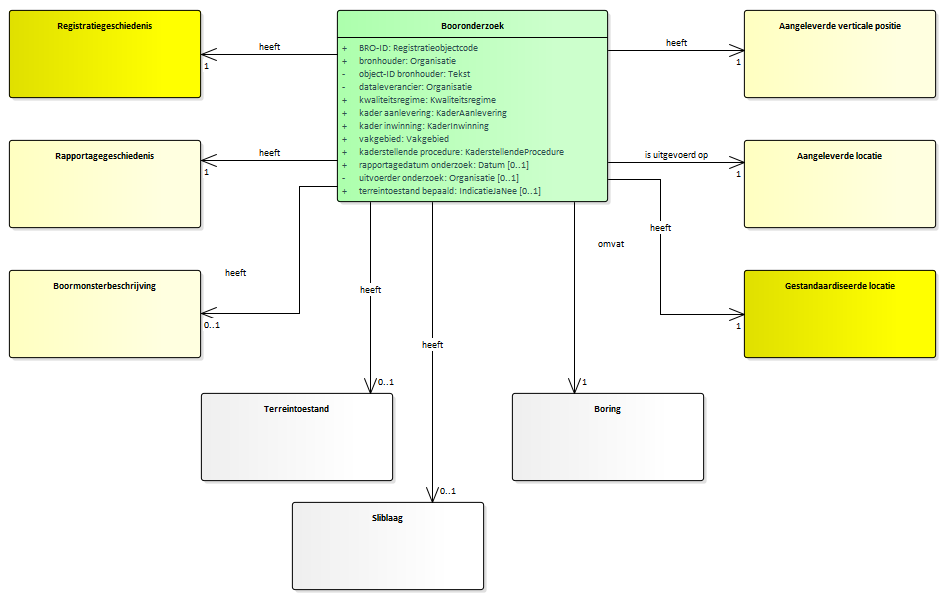
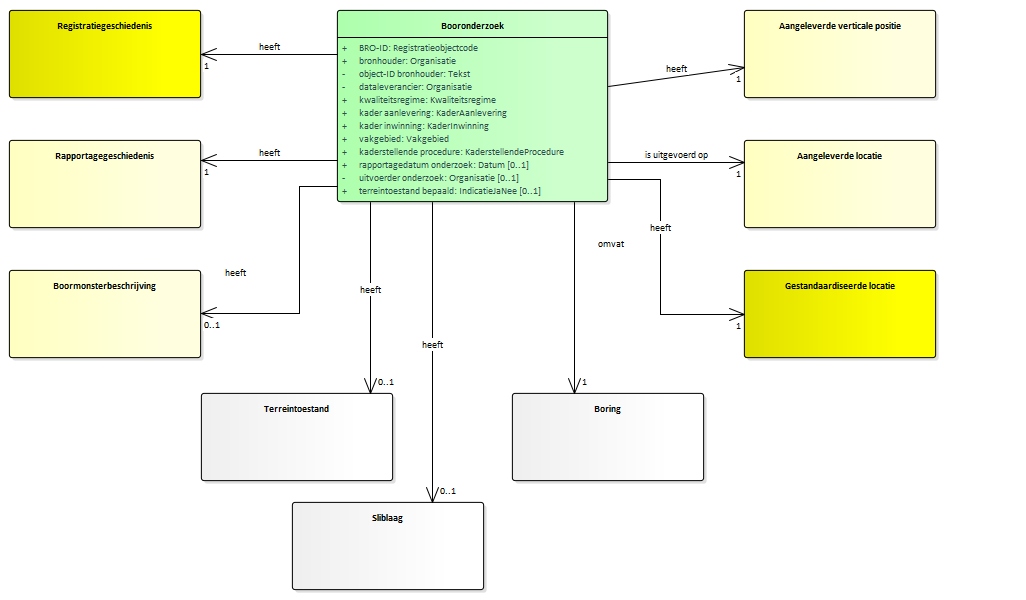
Conceptualmodel-GeologischbooronderzoekBHR-G-0.91-0-20200203-20200208-233418

diff --git a/data/BHR-G-cat.msword.html b/data/BHR-G-cat.msword.html
@@ -13,7 +13,7 @@
    <body>
       <p>Conceptual model/Geologisch booronderzoek (BHR-G)/20200203</p>
       <p>Imvertor: 1.57.1</p>
-      <p>Model release: Conceptualmodel-GeologischbooronderzoekBHR-G-0.91-0-20200203-20200206-120900</p>
+      <p>Model release: Conceptualmodel-GeologischbooronderzoekBHR-G-0.91-0-20200203-20200208-233418</p>
       <hr>
       <section>
          <h1>Artikel 1 Definitie van registratieobject, entiteiten en attributen</h1>
@@ -37,7 +37,7 @@
                      <area shape="rect" alt="Tussentijdse gebeurtenis" coords="39,348,273,410" href="#graph_EAID_725A4724_B6D0_4341_A1C4_4F93AD3E6216">
                      <area shape="rect" alt="Rapportagegeschiedenis" coords="39,247,273,309" href="#graph_EAID_8BEA8373_8624_4cd9_80EA_7EC93CED307F">
                      <area shape="rect" alt="Registratiegeschiedenis" coords="11,10,328,202" href="#graph_EAID_C7F3AA17_23C9_4038_AA5F_EA56515F2929">
-                     <area shape="rect" alt="Booronderzoek" coords="400,10,716,202" href="#graph_EAID_660D0220_39EE_4290_AD92_C8E8CCEDB502"></map><p><b>Domeinmodel geologisch booronderzoek, algemeen deel</b> — het algemeen deel uitgewerkt
+                     <area shape="rect" alt="Booronderzoek" coords="401,10,717,202" href="#graph_EAID_660D0220_39EE_4290_AD92_C8E8CCEDB502"></map><p><b>Domeinmodel geologisch booronderzoek, algemeen deel</b> — het algemeen deel uitgewerkt
                   </p>
                </div>
                <div class="imageinfo overview"><img src="Images/EAID_A794A5F1_C52E_4a52_952F_D4257486C44D.png" usemap="#imagemap-EAID_A794A5F1_C52E_4a52_952F_D4257486C44D" alt="Diagram deelonderzoek boormonsterbeschrijving uitgewerkt."><map name="imagemap-EAID_A794A5F1_C52E_4a52_952F_D4257486C44D">
@@ -160,6 +160,9 @@
                         <tr>
                            <th>Relaties met andere entiteiten</th>
                            <td>Booronderzoek 
+                              aangeleverde verticale positie 1 
+                              <a class="link" href="#global_class_DomeinmodelBHRBHRG_AangeleverdeVerticalePositie">Aangeleverde verticale positie</a>
+                              <br>Booronderzoek 
                               heeft 1 
                               <a class="link" href="#global_class_DomeinmodelBHRBHRG_GestandaardiseerdeLocatie">Gestandaardiseerde locatie</a>
                               <br>Booronderzoek 
@@ -181,7 +184,8 @@
                               heeft 1 
                               <a class="link" href="#global_class_DomeinmodelBHRBHRG_Rapportagegeschiedenis">Rapportagegeschiedenis</a>
                               <br>Booronderzoek 
-                              heeft 1 
+                              heeft
+                              1 
                               <a class="link" href="#global_class_DomeinmodelBHRBHRG_AangeleverdeVerticalePositie">Aangeleverde verticale positie</a>
                               <br>Booronderzoek 
                               heeft 0..1 
@@ -2210,7 +2214,11 @@
                            <td>
                               <a class="link" href="#global_class_DomeinmodelBHRBHRG_Booronderzoek">Booronderzoek</a>
                               
-                              heeft 1 Aangeleverde verticale positie<br></td>
+                              heeft
+                              1 Aangeleverde verticale positie<br>
+                              <a class="link" href="#global_class_DomeinmodelBHRBHRG_Booronderzoek">Booronderzoek</a>
+                              
+                              aangeleverde verticale positie 1 Aangeleverde verticale positie<br></td>
                         </tr>
                      </tbody>
                   </table>
